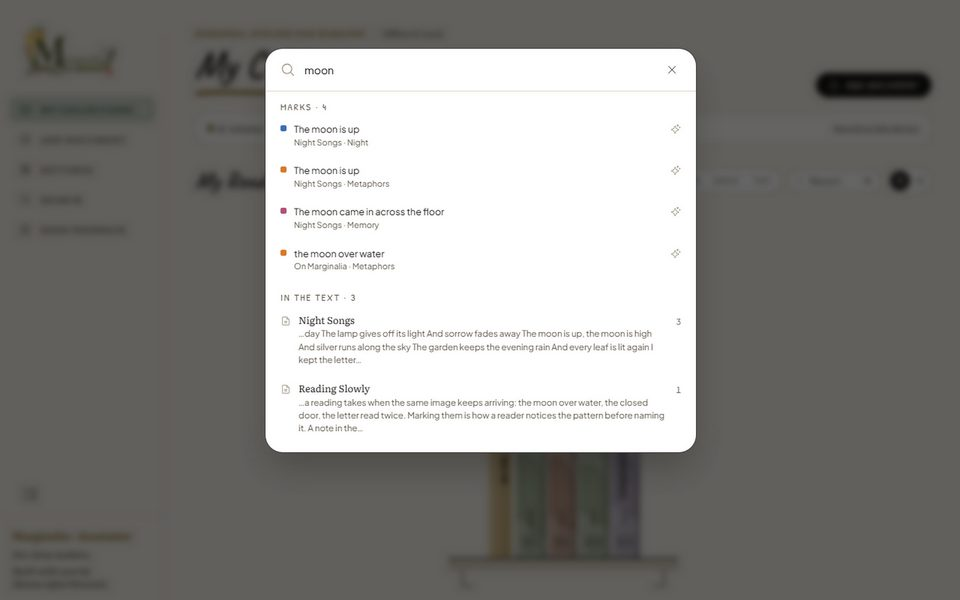
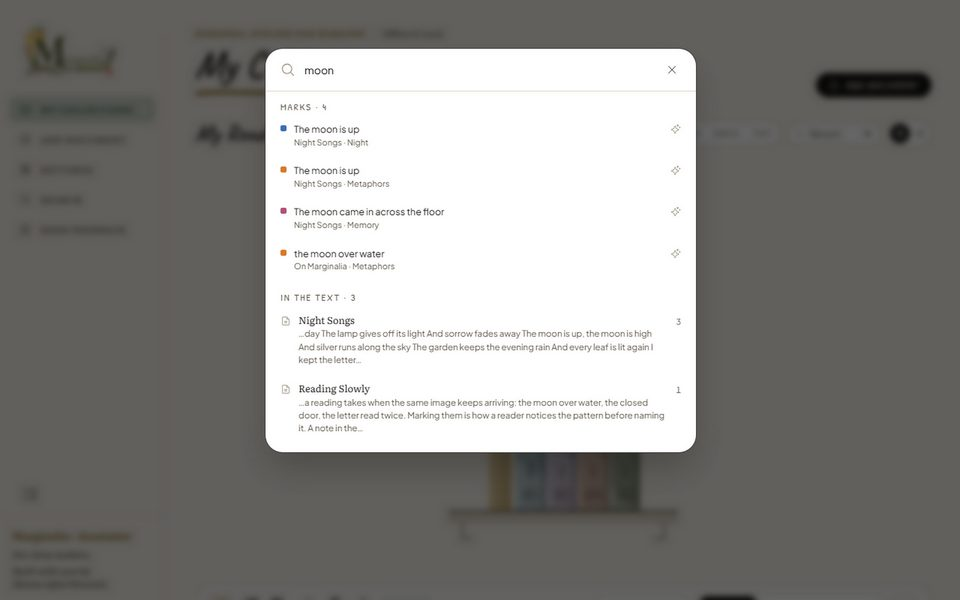
Release 2.8.1: no counts row on My Collections, Settings in the spines' type
- Removed the volumes / words / marks / themes line under the My Collections heading
- Settings body, labels, buttons and the theme manager use the book spines' type
- Guide screenshots retaken

diff --git a/src/components/SettingsScreen.tsx b/src/components/SettingsScreen.tsx
@@ -237,7 +237,7 @@ export const SettingsScreen: React.FC<SettingsScreenProps> = ({
   };
 
   return (
-    <main className="flex-1 px-5 py-4 pb-24 md:pb-8 max-w-md md:max-w-2xl mx-auto w-full space-y-6">
+    <main className="font-serif flex-1 px-5 py-4 pb-24 md:pb-8 max-w-md md:max-w-2xl mx-auto w-full space-y-6">
       {/* Title */}
       <h2 className="title-hand title-hand-rule text-[44px] text-stone-900 dark:text-paper">
         Settings
@@ -252,7 +252,7 @@ export const SettingsScreen: React.FC<SettingsScreenProps> = ({
             : 'bg-white border-stone-200/80 text-stone-900 shadow-xs'
         }`}
       >
-        <span className="caps text-muted block mb-4">
+        <span className="caps spine-type text-muted block mb-4">
           PROFILE
         </span>
 
@@ -289,7 +289,7 @@ export const SettingsScreen: React.FC<SettingsScreenProps> = ({
       >
         <div className="flex items-center gap-1.5 mb-4">
           <Sparkles className="w-3.5 h-3.5 text-muted" />
-          <span className="caps text-muted">
+          <span className="caps spine-type text-muted">
             AI FEATURES (OPTIONAL)
           </span>
         </div>
@@ -326,7 +326,7 @@ export const SettingsScreen: React.FC<SettingsScreenProps> = ({
             AI features need a Google Gemini key. It is stored on this computer, beside your
             library, and is sent to Google only when you press an AI button.{' '}
             Create a free one at{' '}
-            <span className="font-mono text-[12px] text-stone-800 dark:text-stone-200">
+            <span className="spine-type text-[12px] text-stone-800 dark:text-stone-200">
               aistudio.google.com/apikey
             </span>
             .
@@ -358,7 +358,7 @@ export const SettingsScreen: React.FC<SettingsScreenProps> = ({
               placeholder={geminiConfig?.configured ? '••••••••••••••••' : 'Paste your Gemini API key'}
               spellCheck={false}
               autoComplete="off"
-              className={`w-full px-3 py-2 rounded-xl border text-[12.5px] font-mono focus:outline-none focus:ring-1 focus:ring-gold ${
+              className={`w-full px-3 py-2 rounded-xl border text-[12.5px] spine-type focus:outline-none focus:ring-1 focus:ring-gold ${
                 isDark
                   ? 'bg-night border-stone-800 text-stone-100'
                   : 'bg-white border-stone-200 text-stone-900'
@@ -379,7 +379,7 @@ export const SettingsScreen: React.FC<SettingsScreenProps> = ({
               onChange={(e) => setGeminiModelDraft(e.target.value)}
               placeholder={geminiConfig?.model ?? 'gemini-flash-latest'}
               spellCheck={false}
-              className={`w-full px-3 py-2 rounded-xl border text-[12.5px] font-mono focus:outline-none focus:ring-1 focus:ring-gold ${
+              className={`w-full px-3 py-2 rounded-xl border text-[12.5px] spine-type focus:outline-none focus:ring-1 focus:ring-gold ${
                 isDark
                   ? 'bg-night border-stone-800 text-stone-100'
                   : 'bg-white border-stone-200 text-stone-900'
@@ -392,7 +392,7 @@ export const SettingsScreen: React.FC<SettingsScreenProps> = ({
               type="button"
               onClick={() => void persistGeminiConfig()}
               disabled={geminiSaving || (!geminiKeyDraft.trim() && !geminiModelDraft.trim())}
-              className="px-4 py-2 rounded-full bg-accent caps hover:bg-accent-hover text-on-accent text-[12.5px] font-semibold cursor-pointer disabled:opacity-50 disabled:cursor-default transition-colors"
+              className="px-4 py-2 rounded-full bg-accent caps spine-type hover:bg-accent-hover text-on-accent text-[12.5px] font-semibold cursor-pointer disabled:opacity-50 disabled:cursor-default transition-colors"
             >
               {geminiSaving ? 'Saving…' : 'Save'}
             </button>
@@ -423,7 +423,7 @@ export const SettingsScreen: React.FC<SettingsScreenProps> = ({
       >
         <div className="flex items-center gap-1.5 mb-4">
           <HardDrive className="w-3.5 h-3.5 text-muted" />
-          <span className="caps text-muted">
+          <span className="caps spine-type text-muted">
             STORAGE
           </span>
         </div>
@@ -434,7 +434,7 @@ export const SettingsScreen: React.FC<SettingsScreenProps> = ({
               Documents folder
             </span>
             <p
-              className={`text-[12.5px] font-mono break-all leading-snug rounded-xl px-3 py-2.5 ${
+              className={`text-[12.5px] spine-type break-all leading-snug rounded-xl px-3 py-2.5 ${
                 isDark ? 'bg-night-1 text-stone-300' : 'bg-stone-50 text-stone-700'
               }`}
               title={storage?.location}
@@ -463,7 +463,7 @@ export const SettingsScreen: React.FC<SettingsScreenProps> = ({
                 type="button"
                 onClick={() => void handleChangeFolder()}
                 disabled={isChangingFolder}
-                className="flex items-center gap-1.5 px-3.5 py-2 rounded-full bg-accent caps hover:bg-accent-hover text-on-accent text-[12.5px] font-semibold transition-colors cursor-pointer disabled:opacity-50"
+                className="flex items-center gap-1.5 px-3.5 py-2 rounded-full bg-accent caps spine-type hover:bg-accent-hover text-on-accent text-[12.5px] font-semibold transition-colors cursor-pointer disabled:opacity-50"
               >
                 {isChangingFolder ? <Loader2 className="w-3.5 h-3.5 animate-spin" /> : <FolderOpen className="w-3.5 h-3.5" />}
                 <span>Change Folder…</span>
@@ -516,7 +516,7 @@ export const SettingsScreen: React.FC<SettingsScreenProps> = ({
             : 'bg-white border-stone-200/80 text-stone-900 shadow-xs'
         }`}
       >
-        <span className="caps text-muted block">
+        <span className="caps spine-type text-muted block">
           READING PREFERENCES
         </span>
 
@@ -628,7 +628,7 @@ export const SettingsScreen: React.FC<SettingsScreenProps> = ({
         <div className="flex items-center justify-between mb-1">
           <div className="flex items-center gap-1.5">
             <Droplet className="w-3.5 h-3.5 text-muted" />
-            <span className="caps text-muted">
+            <span className="caps spine-type text-muted">
               YOUR COLOURS
             </span>
           </div>
@@ -700,7 +700,7 @@ export const SettingsScreen: React.FC<SettingsScreenProps> = ({
       >
         <div className="flex items-center gap-1.5 mb-1">
           <Tag className="w-3.5 h-3.5 text-muted" />
-          <span className="caps text-muted">
+          <span className="caps spine-type text-muted">
             TERMINOLOGY
           </span>
         </div>
@@ -721,7 +721,7 @@ export const SettingsScreen: React.FC<SettingsScreenProps> = ({
               className="opacity-0 w-full h-full cursor-pointer"
             />
           </label>
-          <span className="text-[12.5px] font-mono tabular-nums text-muted uppercase">
+          <span className="text-[12.5px] spine-type tabular-nums text-muted uppercase">
             {settings.terminologyColor}
           </span>
         </div>
@@ -743,7 +743,7 @@ export const SettingsScreen: React.FC<SettingsScreenProps> = ({
         >
           <div className="flex items-center gap-1.5 mb-4">
             <DownloadCloud className="w-3.5 h-3.5 text-muted" />
-            <span className="caps text-muted">
+            <span className="caps spine-type text-muted">
               UPDATES
             </span>
           </div>
@@ -841,7 +841,7 @@ export const SettingsScreen: React.FC<SettingsScreenProps> = ({
               <button
                 type="button"
                 onClick={() => void bridge.quitAndInstallUpdate()}
-                className="shrink-0 px-3.5 py-2 rounded-full bg-accent caps hover:bg-accent-hover text-on-accent text-[12.5px] font-semibold transition-colors cursor-pointer"
+                className="shrink-0 px-3.5 py-2 rounded-full bg-accent caps spine-type hover:bg-accent-hover text-on-accent text-[12.5px] font-semibold transition-colors cursor-pointer"
               >
                 Restart &amp; Update
               </button>
@@ -868,7 +868,7 @@ export const SettingsScreen: React.FC<SettingsScreenProps> = ({
             : 'bg-white border-stone-200/80 text-stone-900 shadow-xs'
         }`}
       >
-        <span className="caps text-muted block mb-3">
+        <span className="caps spine-type text-muted block mb-3">
           ABOUT
         </span>
         <div className="space-y-1.5 text-[13px]">
@@ -880,7 +880,7 @@ export const SettingsScreen: React.FC<SettingsScreenProps> = ({
                 <button
                   type="button"
                   onClick={onOpenChangelog}
-                  className="px-2 py-0.5 rounded-md text-[11px] font-mono font-medium bg-stone-100 hover:bg-stone-200 dark:bg-stone-800 dark:hover:bg-stone-700 text-stone-700 dark:text-stone-300 transition-colors cursor-pointer active:scale-95"
+                  className="px-2 py-0.5 rounded-md text-[11px] spine-type font-medium bg-stone-100 hover:bg-stone-200 dark:bg-stone-800 dark:hover:bg-stone-700 text-stone-700 dark:text-stone-300 transition-colors cursor-pointer active:scale-95"
                 >
                   What's New
                 </button>
@@ -928,7 +928,7 @@ export const SettingsScreen: React.FC<SettingsScreenProps> = ({
       >
         <div className="flex items-center gap-1.5 mb-4">
           <Scale className="w-3.5 h-3.5 text-muted" />
-          <span className="caps text-muted">
+          <span className="caps spine-type text-muted">
             LEGAL
           </span>
         </div>

diff --git a/src/components/ThemeManager.tsx b/src/components/ThemeManager.tsx
@@ -129,13 +129,13 @@ export const ThemeManager: React.FC<{ store: ThemeStore; isDark: boolean }> = ({
       <div className="flex items-center justify-between mb-4">
         <h3 id="theme-manager-title" className="flex items-center gap-1.5">
           <Sparkles className="w-3.5 h-3.5 text-muted" />
-          <span className="caps text-muted">Themes</span>
+          <span className="caps spine-type text-muted">Themes</span>
         </h3>
         <button
           type="button"
           onClick={() => open({ kind: 'create' }, '', nextFreeColor(store.themes))}
           disabled={mode.kind === 'create'}
-          className="rounded-full caps caps-sm px-3 py-1.5 flex items-center gap-1 text-gold dark:text-gold hover:bg-gold/10 transition-colors cursor-pointer disabled:opacity-40 disabled:cursor-default"
+          className="rounded-full caps spine-type caps-sm px-3 py-1.5 flex items-center gap-1 text-gold dark:text-gold hover:bg-gold/10 transition-colors cursor-pointer disabled:opacity-40 disabled:cursor-default"
         >
           <Plus className="w-3.5 h-3.5" />
           New theme
@@ -235,8 +235,8 @@ export const ThemeManager: React.FC<{ store: ThemeStore; isDark: boolean }> = ({
               {recoloring && (
                 <div className="px-3 pb-3 pt-1 border-t border-stone-200 dark:border-stone-700/60">
                   <div className="flex items-center justify-between py-2">
-                    <span className="caps caps-sm text-muted">Colour for {theme.name}</span>
-                    <button type="button" onClick={close} className="rounded-full caps caps-sm px-3 py-1 text-muted hover:bg-black/5 dark:hover:bg-white/10 cursor-pointer">
+                    <span className="caps spine-type caps-sm text-muted">Colour for {theme.name}</span>
+                    <button type="button" onClick={close} className="rounded-full caps spine-type caps-sm px-3 py-1 text-muted hover:bg-black/5 dark:hover:bg-white/10 cursor-pointer">
                       Done
                     </button>
                   </div>
@@ -253,7 +253,7 @@ export const ThemeManager: React.FC<{ store: ThemeStore; isDark: boolean }> = ({
                       : 'Marks filed under it keep their colour.'}
                   </p>
                   <div className="flex items-center gap-1.5">
-                    <button type="button" autoFocus onClick={close} className="rounded-full caps caps-sm px-3 py-1.5 text-muted hover:bg-black/5 dark:hover:bg-white/10 cursor-pointer">
+                    <button type="button" autoFocus onClick={close} className="rounded-full caps spine-type caps-sm px-3 py-1.5 text-muted hover:bg-black/5 dark:hover:bg-white/10 cursor-pointer">
                       Keep
                     </button>
                     <button
@@ -262,7 +262,7 @@ export const ThemeManager: React.FC<{ store: ThemeStore; isDark: boolean }> = ({
                         store.remove(theme.id);
                         close();
                       }}
-                      className="rounded-full caps caps-sm px-3 py-1.5 bg-red-700 hover:bg-red-800 text-white dark:bg-red-300 dark:hover:bg-red-200 dark:text-stone-900 cursor-pointer"
+                      className="rounded-full caps spine-type caps-sm px-3 py-1.5 bg-red-700 hover:bg-red-800 text-white dark:bg-red-300 dark:hover:bg-red-200 dark:text-stone-900 cursor-pointer"
                     >
                       Delete
                     </button>
@@ -277,7 +277,7 @@ export const ThemeManager: React.FC<{ store: ThemeStore; isDark: boolean }> = ({
       {mode.kind === 'create' && (
         <form onSubmit={submitCreate} className="mt-4 pt-4 border-t border-stone-200 dark:border-stone-700/60 space-y-3">
           <label className="block space-y-1">
-            <span className="caps caps-sm text-muted">New theme name</span>
+            <span className="caps spine-type caps-sm text-muted">New theme name</span>
             <input
               autoFocus
               value={draft}
@@ -303,10 +303,10 @@ export const ThemeManager: React.FC<{ store: ThemeStore; isDark: boolean }> = ({
           )}
           <PalettePicker value={draftColor} onPick={setDraftColor} label="New theme colour" />
           <div className="flex items-center justify-end gap-2 pt-1">
-            <button type="button" onClick={close} className="rounded-full caps px-4 py-2 text-[12px] text-muted hover:bg-black/5 dark:hover:bg-white/10 cursor-pointer">
+            <button type="button" onClick={close} className="rounded-full caps spine-type px-4 py-2 text-[12px] text-muted hover:bg-black/5 dark:hover:bg-white/10 cursor-pointer">
               Cancel
             </button>
-            <button type="submit" className="rounded-full caps px-4 py-2 text-[12px] bg-accent hover:bg-accent-hover text-on-accent flex items-center gap-1.5 cursor-pointer">
+            <button type="submit" className="rounded-full caps spine-type px-4 py-2 text-[12px] bg-accent hover:bg-accent-hover text-on-accent flex items-center gap-1.5 cursor-pointer">
               <span className="w-2.5 h-2.5 rounded-full border border-white/40" style={{ backgroundColor: draftColor }} />
               Create theme
             </button>

diff --git a/src/components/HomeScreen.tsx b/src/components/HomeScreen.tsx
@@ -46,7 +46,7 @@ import {
 } from '../utils/documentStorage';
 import { ErrorDialog } from './ErrorDialog';
 import { groupHeads, migrateTextEntries, sortTextMarks, type TextMark } from '../utils/textMarks';
-import { noun, plural } from '../utils/plural';
+import { plural } from '../utils/plural';
 
 interface HomeScreenProps {
   onNavigate: (screen: Screen, transition?: TransitionType) => void;
@@ -330,7 +330,6 @@ export const HomeScreen: React.FC<HomeScreenProps> = ({
   };
 
   // Metrics
-  const totalWords = useMemo(() => stored.reduce((sum, d) => sum + (d.wordCount || 0), 0), [stored]);
   /**
    * Every mark in the library. Also what the My Margins Tracker badge counts.
    *
@@ -469,53 +468,6 @@ export const HomeScreen: React.FC<HomeScreenProps> = ({
           </div>
         </div>
 
-        {/* Live Telemetry Capsule */}
-        <div
-          className={`flex flex-wrap items-center justify-between gap-3 px-4 py-3 rounded-xl border text-[12px] ${
-            isDark
-              ? 'bg-night-3 border-stone-800 text-stone-300'
-              : 'bg-[#faf9f6] border-stone-200/80 text-stone-600'
-          }`}
-        >
-          <div className="flex flex-wrap items-center gap-4 md:gap-6 spine-type text-[11.5px] tabular-nums">
-            <span className="flex items-center gap-1.5">
-              <span className="w-2 h-2 rounded-full bg-gold" />
-              <strong className="text-stone-900 dark:text-stone-100 font-semibold">{stored.length}</strong>
-              <span className="text-muted">{noun(stored.length, 'volume')}</span>
-            </span>
-
-            <span className="text-stone-300 dark:text-stone-700">·</span>
-
-            <span className="flex items-center gap-1.5">
-              <strong className="text-stone-900 dark:text-stone-100 font-semibold">
-                {totalWords.toLocaleString()}
-              </strong>
-              <span className="text-muted">{noun(totalWords, 'word')}</span>
-            </span>
-
-            <span className="text-stone-300 dark:text-stone-700">·</span>
-
-            <span className="flex items-center gap-1.5">
-              <strong className="text-stone-900 dark:text-stone-100 font-semibold">
-                {totalMarks.toLocaleString()}
-              </strong>
-              <span className="text-muted">{noun(totalMarks, 'mark')}</span>
-            </span>
-
-            <span className="text-stone-300 dark:text-stone-700">·</span>
-
-            <span className="flex items-center gap-1.5">
-              <strong className="text-stone-900 dark:text-stone-100 font-semibold">
-                {settings.activeThemes.length}
-              </strong>
-              <span className="text-muted">{noun(settings.activeThemes.length, 'theme')}</span>
-            </span>
-          </div>
-
-          <div className="flex items-center gap-1 text-[11px] text-muted spine-type">
-            <span>Stored on this device</span>
-          </div>
-        </div>
       </header>
 
       {/* ── "ON THE DESK" (CURRENTLY READING SPOTLIGHT) ────────────────── */}

diff --git a/src/data/changelog.ts b/src/data/changelog.ts
@@ -22,9 +22,27 @@ export interface ReleaseNote {
   highlights: ChangelogItem[];
 }
 
-export const CURRENT_APP_VERSION = '2.8.0';
+export const CURRENT_APP_VERSION = '2.8.1';
 
 export const CHANGELOG_RELEASES: ReleaseNote[] = [
+  {
+    version: '2.8.1',
+    title: 'A Quieter Collection',
+    date: 'November 2026',
+    summary: 'My Collections drops its row of counts, and Settings takes the book spines’ type.',
+    highlights: [
+      {
+        category: 'improvement',
+        title: 'No counts row on My Collections',
+        description: 'The line of volumes, words, marks and themes under the heading is gone.'
+      },
+      {
+        category: 'improvement',
+        title: 'Settings in the spines’ type',
+        description: 'Settings, its labels and buttons and the theme manager now use the same type as the book spines.'
+      }
+    ]
+  },
   {
     version: '2.8.0',
     title: 'A Guide, More Pages, Cleaner Marks',

diff --git a/CLAUDE.md b/CLAUDE.md
@@ -20,4 +20,5 @@
 - 2.6.0 (2026-11-01): two-page spread with page turns, focus mode, picture tutorial, theme manager, Find (Cmd/Ctrl+F), Markdown/JSON export + commonplace book + import, 5 auto backups with Restore marks, copy quote with reference, linked marks, PDF area highlight. Argus PASS, jury 7.68 with Developer Award.
 - 2.7.0 (2026-11-03): RTL + Nastaliq (bundled Noto Nastaliq Urdu; RTL notes PDFs print via `/api/export/notes-pdf`), poetry view (`utils/poetry.ts`, CSS highlights, per-doc prefs in settings), motif tracing (`/api/motifs/trace`, saved motifs in settings), excerpt board (`TextMark.board`), class packs (`.marginalia-class`, `utils/classPack.ts`), Send feedback (mailto marginaliaannotator@gmail.com, prompt from 5th launch in config.json).
 - 2.8.0 (2026-11-03): guide on My Collections (`data/guide.ts`, `GuideSection.tsx`, screenshots by `npm run guide:capture` → `src/assets/guide/`; rerun after UI changes it shows), PDF 1/2/4/6 pages (`viewMode` grid4/grid6), swipe turns (`swipeTurn.ts`), same words under several themes, Mask = filled rect, spine type (`.spine-type`), book view draws neighbour pages offstage, quotes clipped to the text layer (`selectionText.ts`), RFC 6266 download names (`contentDisposition.ts`), settings load merges edits made meanwhile (`settingsHydration.ts`).
+- 2.8.1 (2026-11-03): My Collections counts row removed; Settings (labels, buttons, theme manager) in the spine type (`font-serif` body, `caps spine-type`).
 - Next: nothing approved. Skipped for now: sync, Google Form. On hold: app rename, new logo icon.
